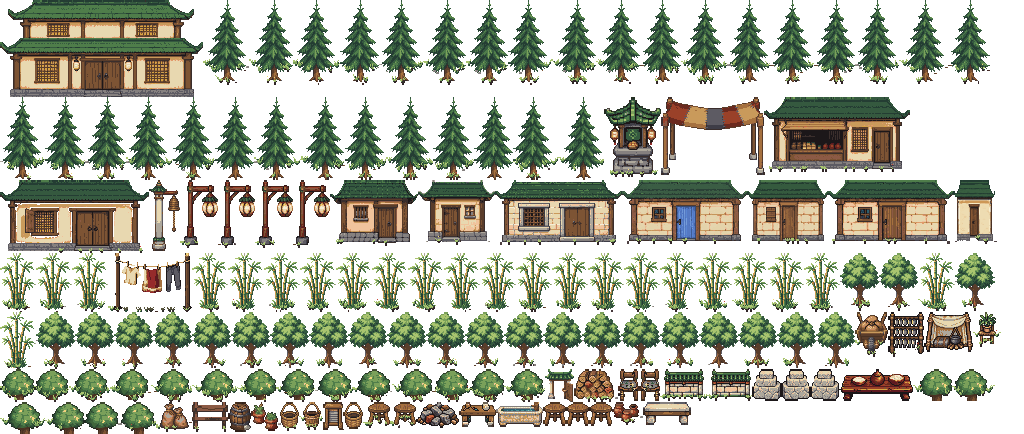
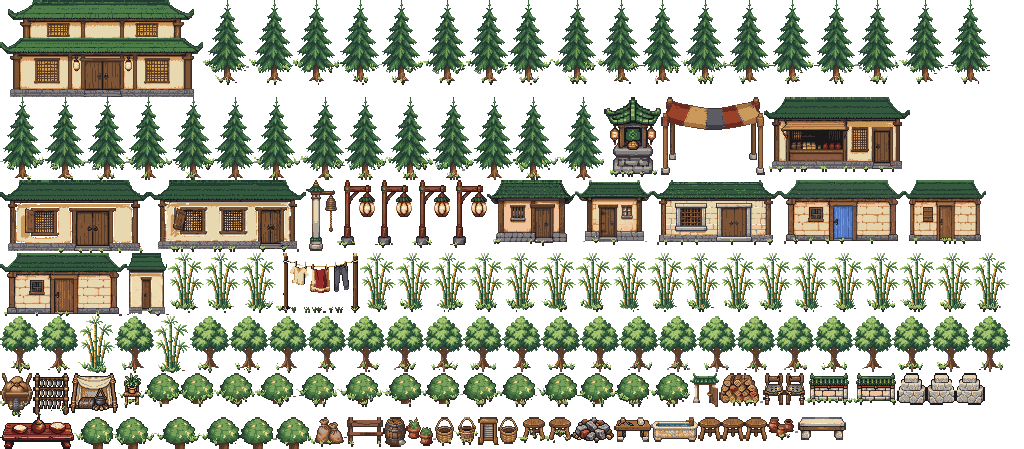
Stand the bent-shutter house in Ba Dan's bake again
The long quarry house at (20..23, 16..17) was dropped from the baked scene:
its annex below (23,18) carries the plinth on under the house's south row,
so the foot check read rock there and found no lift within reach. The
cells stayed blocked with nothing drawn on them. A building may now stand
on a plinth; no other object moves. Re-baked Ba Dan.

Claude-Session: https://claude.ai/code/session_01H8JDTPYztrZvUL5HBCK6eR

diff --git a/src/content/scenes/baDan.layout.ts b/src/content/scenes/baDan.layout.ts
@@ -167,12 +167,23 @@ export function rimSprite(x: number, y: number, before: string | undefined): str
 
 const footprint = (cells: readonly Vec2[]): Vec2[] => cells.map((c) => ({ x: c.x, y: c.y }));
 
-/** What `validateTopDownLayout` asks of a foot: no water or kerb under it, and a tree's roots on soil, not paving. */
-function footOk(tree: boolean, cells: readonly Vec2[], cx: number, baseY: number): boolean {
+/**
+ * What `validateTopDownLayout` asks of a foot: no water or kerb under it, and a tree's roots on soil, not paving. A
+ * building may also stand on a plinth: where another building's blocked cells adjoin its south row (the bent-shutter
+ * house's annex), the plinth runs on under its foot and that is still a house standing on its own ground.
+ */
+function footOk(
+  tree: boolean,
+  cells: readonly Vec2[],
+  cx: number,
+  baseY: number,
+  building = false,
+): boolean {
   const xs = cells.map((c) => c.x);
   const y = baseY - 1;
   const bad = (x: number): boolean => {
     const at = BA_DAN_GROUND.classify(x, y);
+    if (building && at.ground === 'rock') return false;
     return at.ground !== 'ground' || at.kerb === true || (tree && at.terrain === 'C');
   };
   for (let x = Math.min(...xs) * CELL + 4; x <= (Math.max(...xs) + 1) * CELL - 4; x += 4)
@@ -187,8 +198,10 @@ function liftedBase(
   cx: number,
   baseY: number,
   reach: number,
+  building = false,
 ): number | undefined {
-  for (let up = 0; up <= reach; up++) if (footOk(tree, cells, cx, baseY - up)) return baseY - up;
+  for (let up = 0; up <= reach; up++)
+    if (footOk(tree, cells, cx, baseY - up, building)) return baseY - up;
   // a rim tree on the canal's end may instead stand a little lower, on the bank below
   if (tree)
     for (let down = 1; down <= 36; down++)
@@ -214,6 +227,7 @@ function object(
     x,
     Math.round(baseY * CELL),
     m.id.includes('lamp') ? 60 : tree ? 44 : 12,
+    m.kind === 'building',
   );
   if (lifted === undefined) return undefined;
   const base = lifted;
